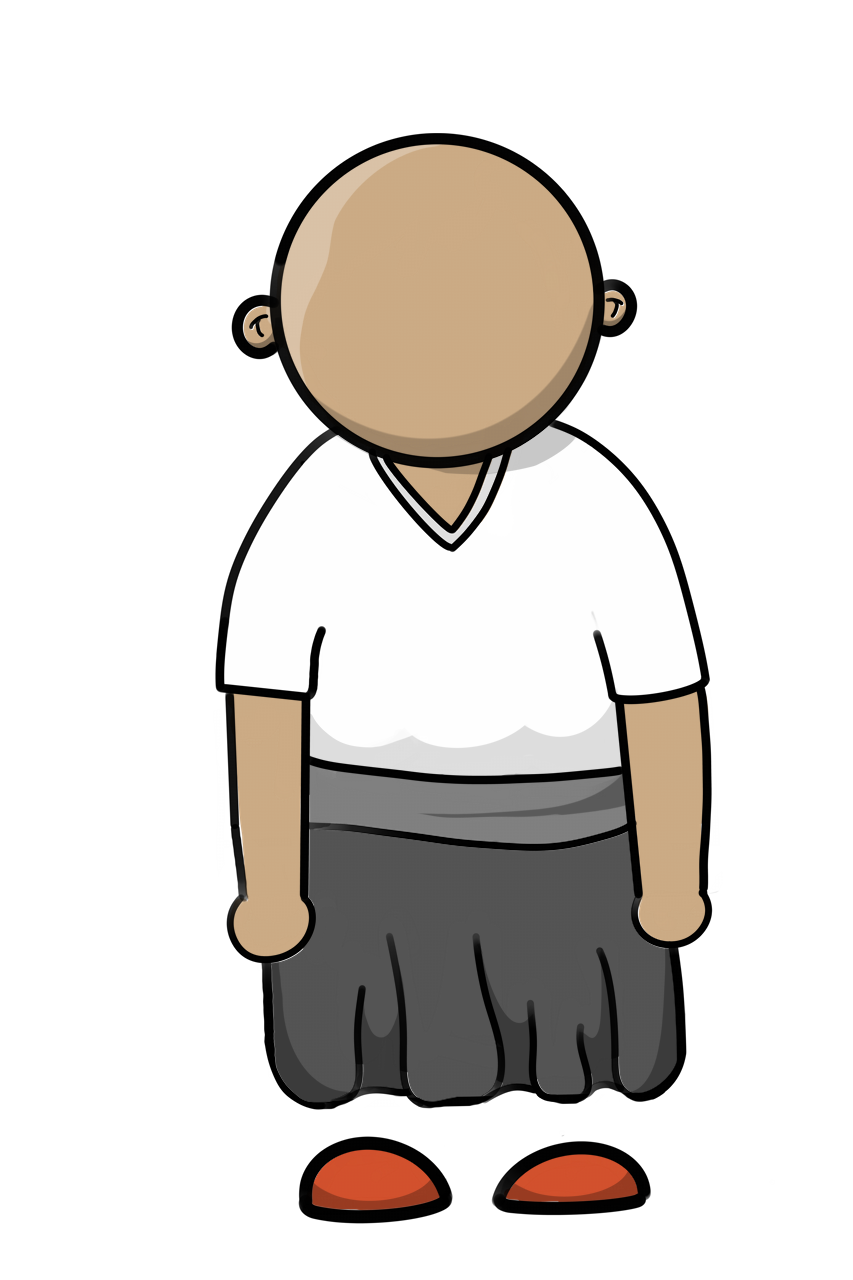
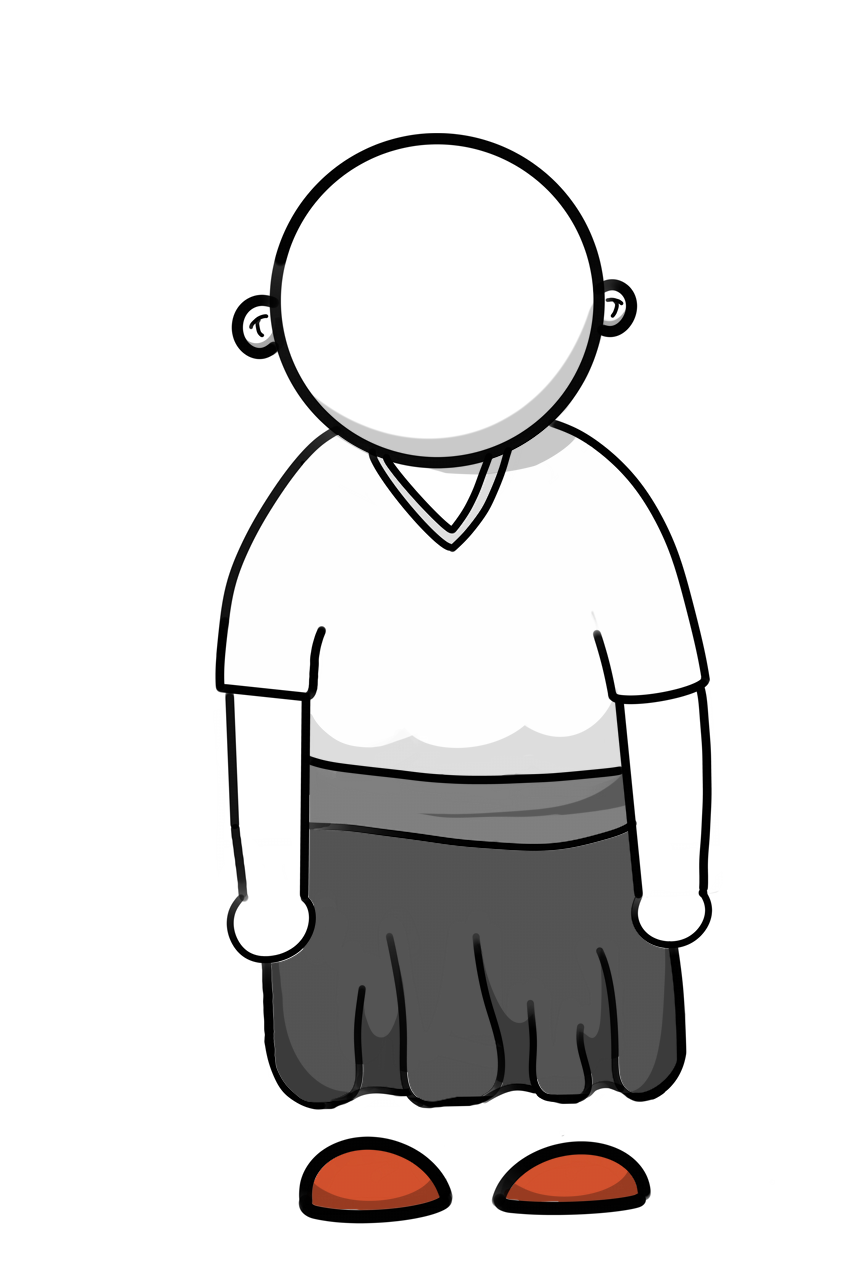
feat: add the possibility to change hair and skin color

Changed region(s): [[0.2743, 0.0938, 0.7315, 0.4062], [0.2743, 0.5312, 0.3658, 0.75], [0.7315, 0.5312, 0.823, 0.75]]

diff --git a/lib/avatar/widgets/avatar_screen.dart b/lib/avatar/widgets/avatar_screen.dart
@@ -2,6 +2,7 @@ import 'package:flutter/material.dart';
 import 'package:provider/provider.dart';
 import 'package:studypoints/avatar/widgets/avatar_view.dart';
 import 'package:studypoints/services/user.dart';
+import 'package:flutter_colorpicker/flutter_colorpicker.dart';
 
 class AvatarScreen extends StatefulWidget {
   final State parent;
@@ -22,17 +23,20 @@ class _AvatarScreenState extends State<AvatarScreen> {
     'assets/face6.png',
   ];
   final List<String> hairOptions = [
-    'assets/hair.png',
     'assets/hair1.png',
     'assets/hair2.png',
     'assets/hair3.png',
     'assets/hair4.png',
-    'assets/hairX.png',
   ];
   final List<String> bodyOptions = [
     'assets/body1.png',
     'assets/body2.png',
     'assets/body3.png',
+  ];
+  final List<String> skinOptions = [
+    'assets/skin1.png',
+    'assets/skin2.png',
+    'assets/skin3.png',
   ];
 
   @override
@@ -61,6 +65,12 @@ class _AvatarScreenState extends State<AvatarScreen> {
               caption: 'Hair Styles',
               current: hairOptions[0],
               options: hairOptions,
+              hasColor: true,
+              colorCallback: (selected) {
+                setState(() {
+                  Provider.of<UserService>(context).avatar.hairColor = selected;
+                });
+              },
               callback: (selected) {
                 setState(() {
                   Provider.of<UserService>(context).avatar.hair = selected;
@@ -76,6 +86,16 @@ class _AvatarScreenState extends State<AvatarScreen> {
                   Provider.of<UserService>(context).avatar.body = selected;
                 });
               },
+            ),
+            PropertyCarousel(
+              caption: 'Skin',
+              current: skinOptions[1],
+              options: skinOptions,
+              callback: (selected) {
+                setState(() {
+                  Provider.of<UserService>(context).avatar.skin = selected;
+                });
+              },
             )
           ],
         ))
@@ -89,9 +109,17 @@ class PropertyCarousel extends StatefulWidget {
   final List<String> options;
   final String caption;
   final Function(String) callback;
+  final Function(Color) colorCallback;
+  final bool hasColor;
 
   const PropertyCarousel(
-      {Key key, this.current, this.options, this.caption, this.callback})
+      {Key key,
+      this.current,
+      this.options,
+      this.caption,
+      this.callback,
+      this.colorCallback,
+      this.hasColor = false})
       : super(key: key);
 
   @override
@@ -111,30 +139,83 @@ class _PropertyCarouselState extends State<PropertyCarousel> {
   Widget build(BuildContext context) {
     return Column(
       children: <Widget>[
-        Text(widget.caption),
+        widget.hasColor
+            ? Row(
+                mainAxisAlignment: MainAxisAlignment.center,
+                children: <Widget>[
+                    Text(widget.caption),
+                    FlatButton.icon(
+                      icon: Icon(Icons.edit),
+                      label: Text('Edit Color'),
+                      onPressed: () {
+                        showDialog(
+                          context: context,
+                          child: AlertDialog(
+                            title: const Text('Pick a color!'),
+                            content: SingleChildScrollView(
+                              child: ColorPicker(
+                                pickerColor: Provider.of<UserService>(context)
+                                    .avatar
+                                    .hairColor,
+                                onColorChanged: widget.colorCallback,
+                                enableLabel: false,
+                                enableAlpha: false,
+                                pickerAreaHeightPercent: 0.8,
+                              ),
+                            ),
+                            actions: <Widget>[
+                              FlatButton(
+                                child: const Text('Done'),
+                                onPressed: () {
+                                  Navigator.of(context).pop();
+                                },
+                              ),
+                            ],
+                          ),
+                        );
+                      },
+                    )
+                  ])
+            : Text(widget.caption),
         Divider(),
-        Wrap(
-          children: widget.options
-              .map((v) => FlatButton(
-                    child: Material(
-                      elevation: current == v ? 2.0 : 0.0,
-                      shape: RoundedRectangleBorder(
-                          borderRadius: BorderRadius.circular(4.0)),
-                      child: Container(
-                        height: 64,
-                        child: AspectRatio(
-                            aspectRatio: 1.0, child: Image.asset(v)),
-                      ),
-                    ),
-                    onPressed: () {
-                      setState(() {
-                        current = v;
-                      });
-                      widget.callback(current);
-                    },
-                  ))
-              .toList(),
-        )
+        Container(
+            height: 64,
+            child: Center(
+                child: ListView(
+              shrinkWrap: true,
+              scrollDirection: Axis.horizontal,
+              children: widget.options
+                  .map((v) => FlatButton(
+                        child: Material(
+                          elevation: current == v ? 2.0 : 0.0,
+                          shape: RoundedRectangleBorder(
+                              borderRadius: BorderRadius.circular(4.0)),
+                          child: Container(
+                            height: 64,
+                            child: AspectRatio(
+                                aspectRatio: 1.0,
+                                child: Image.asset(
+                                  v,
+                                  color: widget.hasColor
+                                      ? Provider.of<UserService>(context)
+                                          .avatar
+                                          .hairColor
+                                      : null,
+                                  colorBlendMode: widget.hasColor
+                                      ? BlendMode.modulate
+                                      : null,
+                                )),
+                          ),
+                        ),
+                        onPressed: () {
+                          setState(() {
+                            current = v;
+                          });
+                          widget.callback(current);
+                        },
+                      ))
+                  .toList(),
+            )))
       ],
     );
   }

diff --git a/lib/avatar/widgets/avatar_view.dart b/lib/avatar/widgets/avatar_view.dart
@@ -1,5 +1,8 @@
 import 'package:flutter/material.dart';
+import 'package:provider/provider.dart';
+import 'package:studypoints/services/user.dart';
 import 'package:studypoints/avatar/data/avatar.dart';
+import 'package:flutter/painting.dart';
 
 class AvatarView extends StatelessWidget {
   final Avatar avatar;
@@ -16,9 +19,14 @@ class AvatarView extends StatelessWidget {
       height: height,
       child: Stack(
         children: <Widget>[
+          Image.asset(avatar.skin),
           Image.asset(avatar.body),
           Image.asset(avatar.face),
-          Image.asset(avatar.hair),
+          Image.asset(
+            avatar.hair,
+            color: Provider.of<UserService>(context).avatar.hairColor,
+            colorBlendMode: BlendMode.modulate,
+          ),
         ],
       ),
     );

diff --git a/lib/avatar/data/avatar.dart b/lib/avatar/data/avatar.dart
@@ -1,7 +1,11 @@
+import 'package:flutter/material.dart';
+
 class Avatar {
   String name = 'Nina';
   String body = 'assets/body1.png';
   String face = 'assets/face1.png';
   String hair = 'assets/hair1.png';
+  String skin = 'assets/skin2.png';
+  Color hairColor = Colors.red;
   List<String> accessoires;
 }
